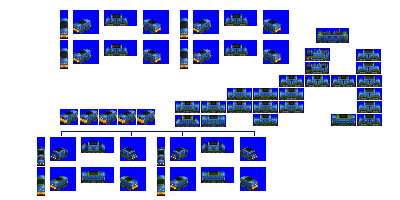
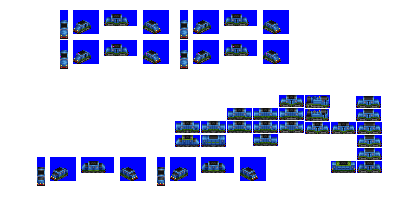
Change: sprites complete for Stoat

diff --git a/src/vehicles/stoat.py b/src/vehicles/stoat.py
@@ -12,7 +12,7 @@ def main(roster):
                             pantograph_type='diamond-single',
                             gen=2,
                             intro_date_offset=6, # introduce later than gen epoch by design
-                            sprites_complete=False)
+                            sprites_complete=True)
 
     consist.add_unit(type=ElectricEngineUnit,
                      weight=54,
